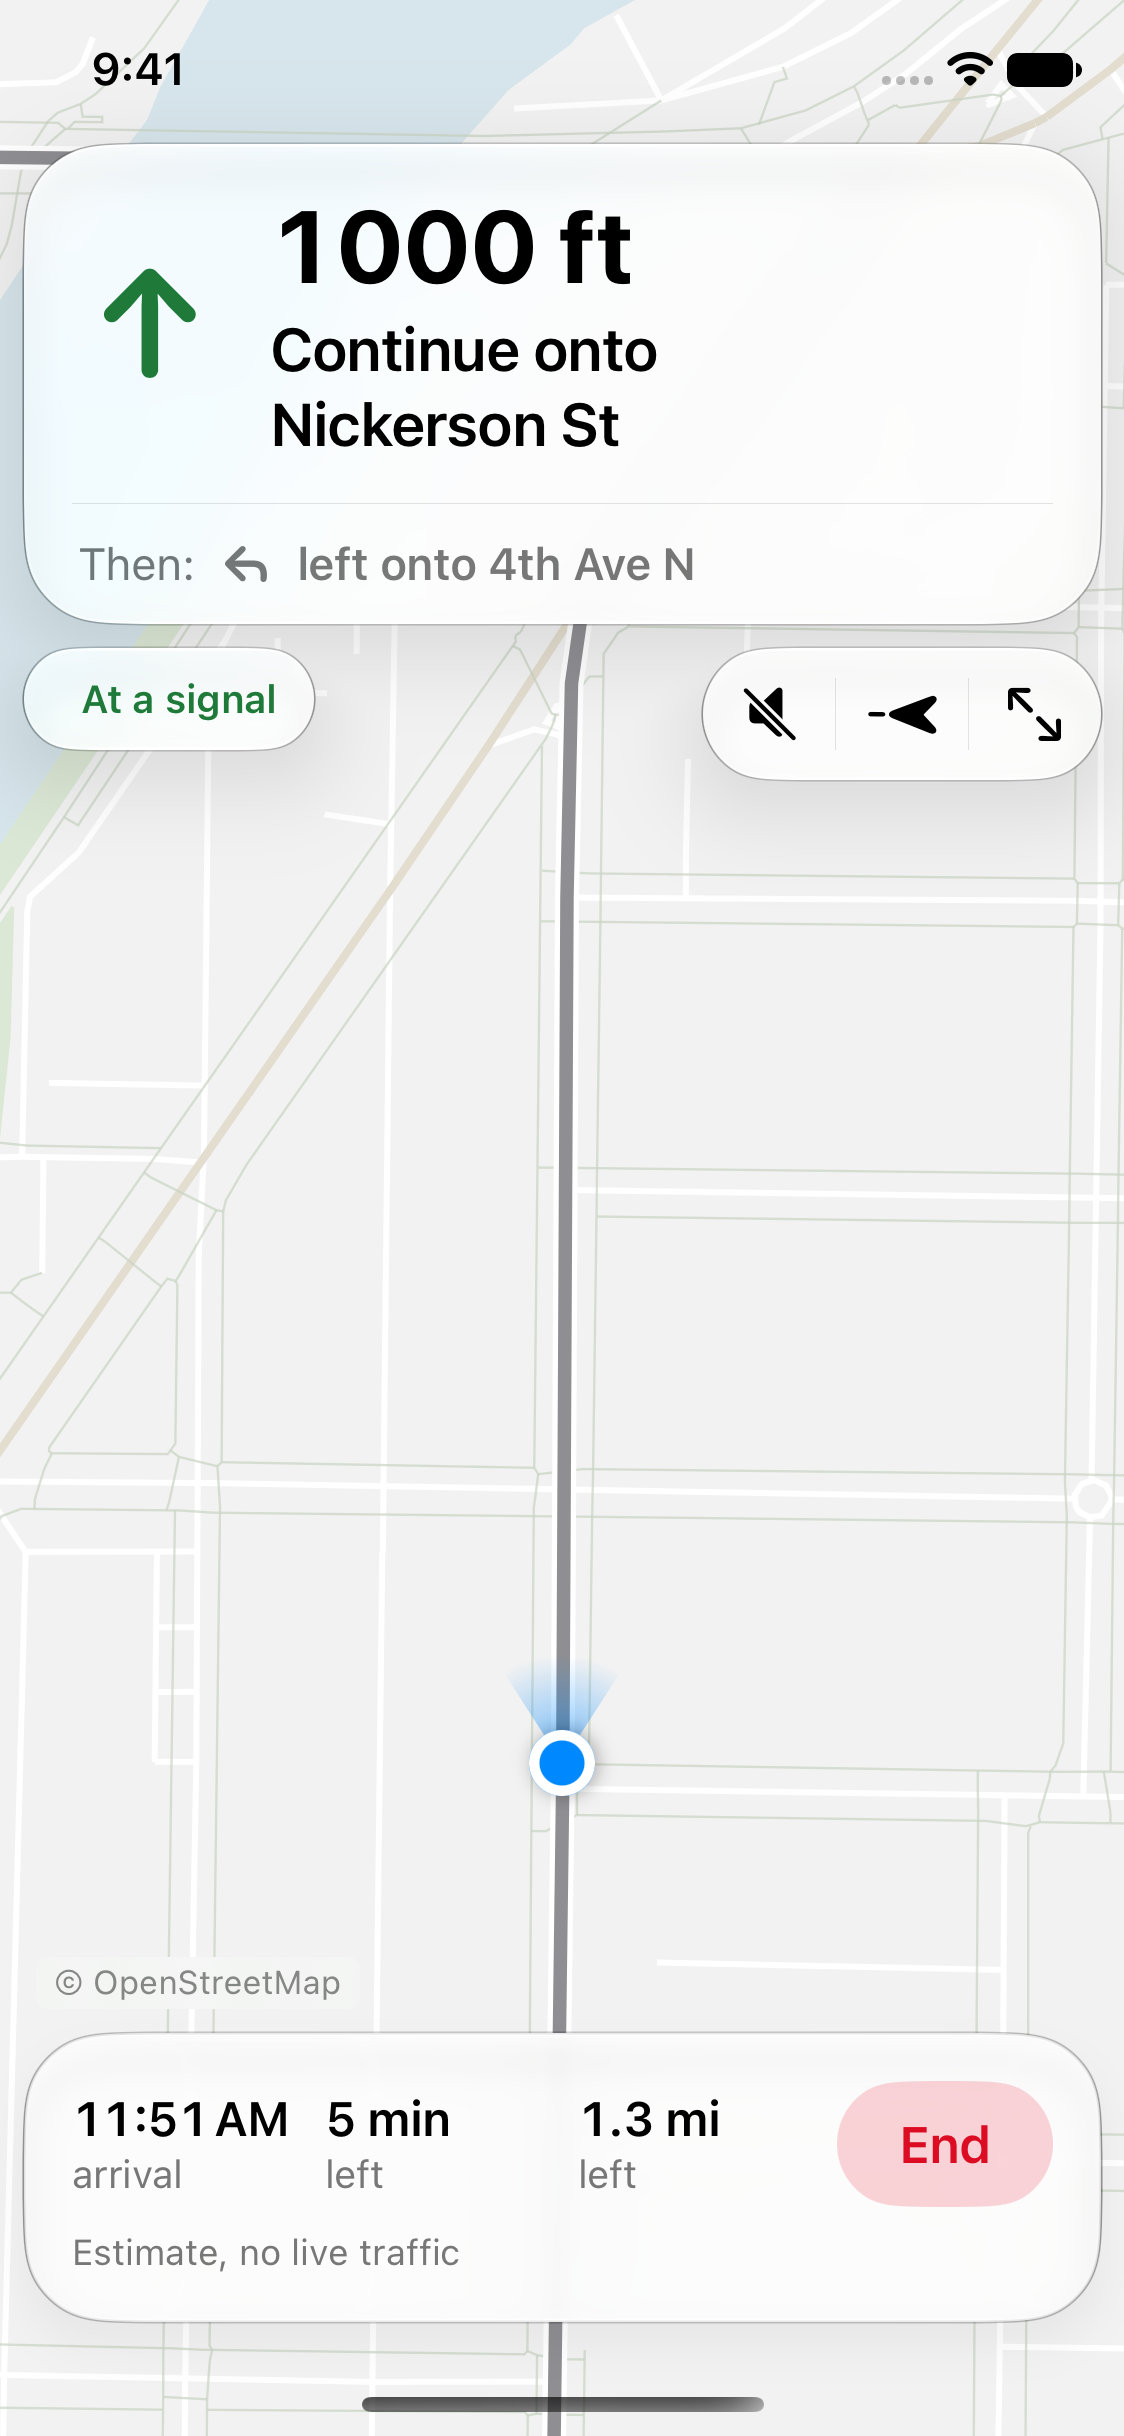
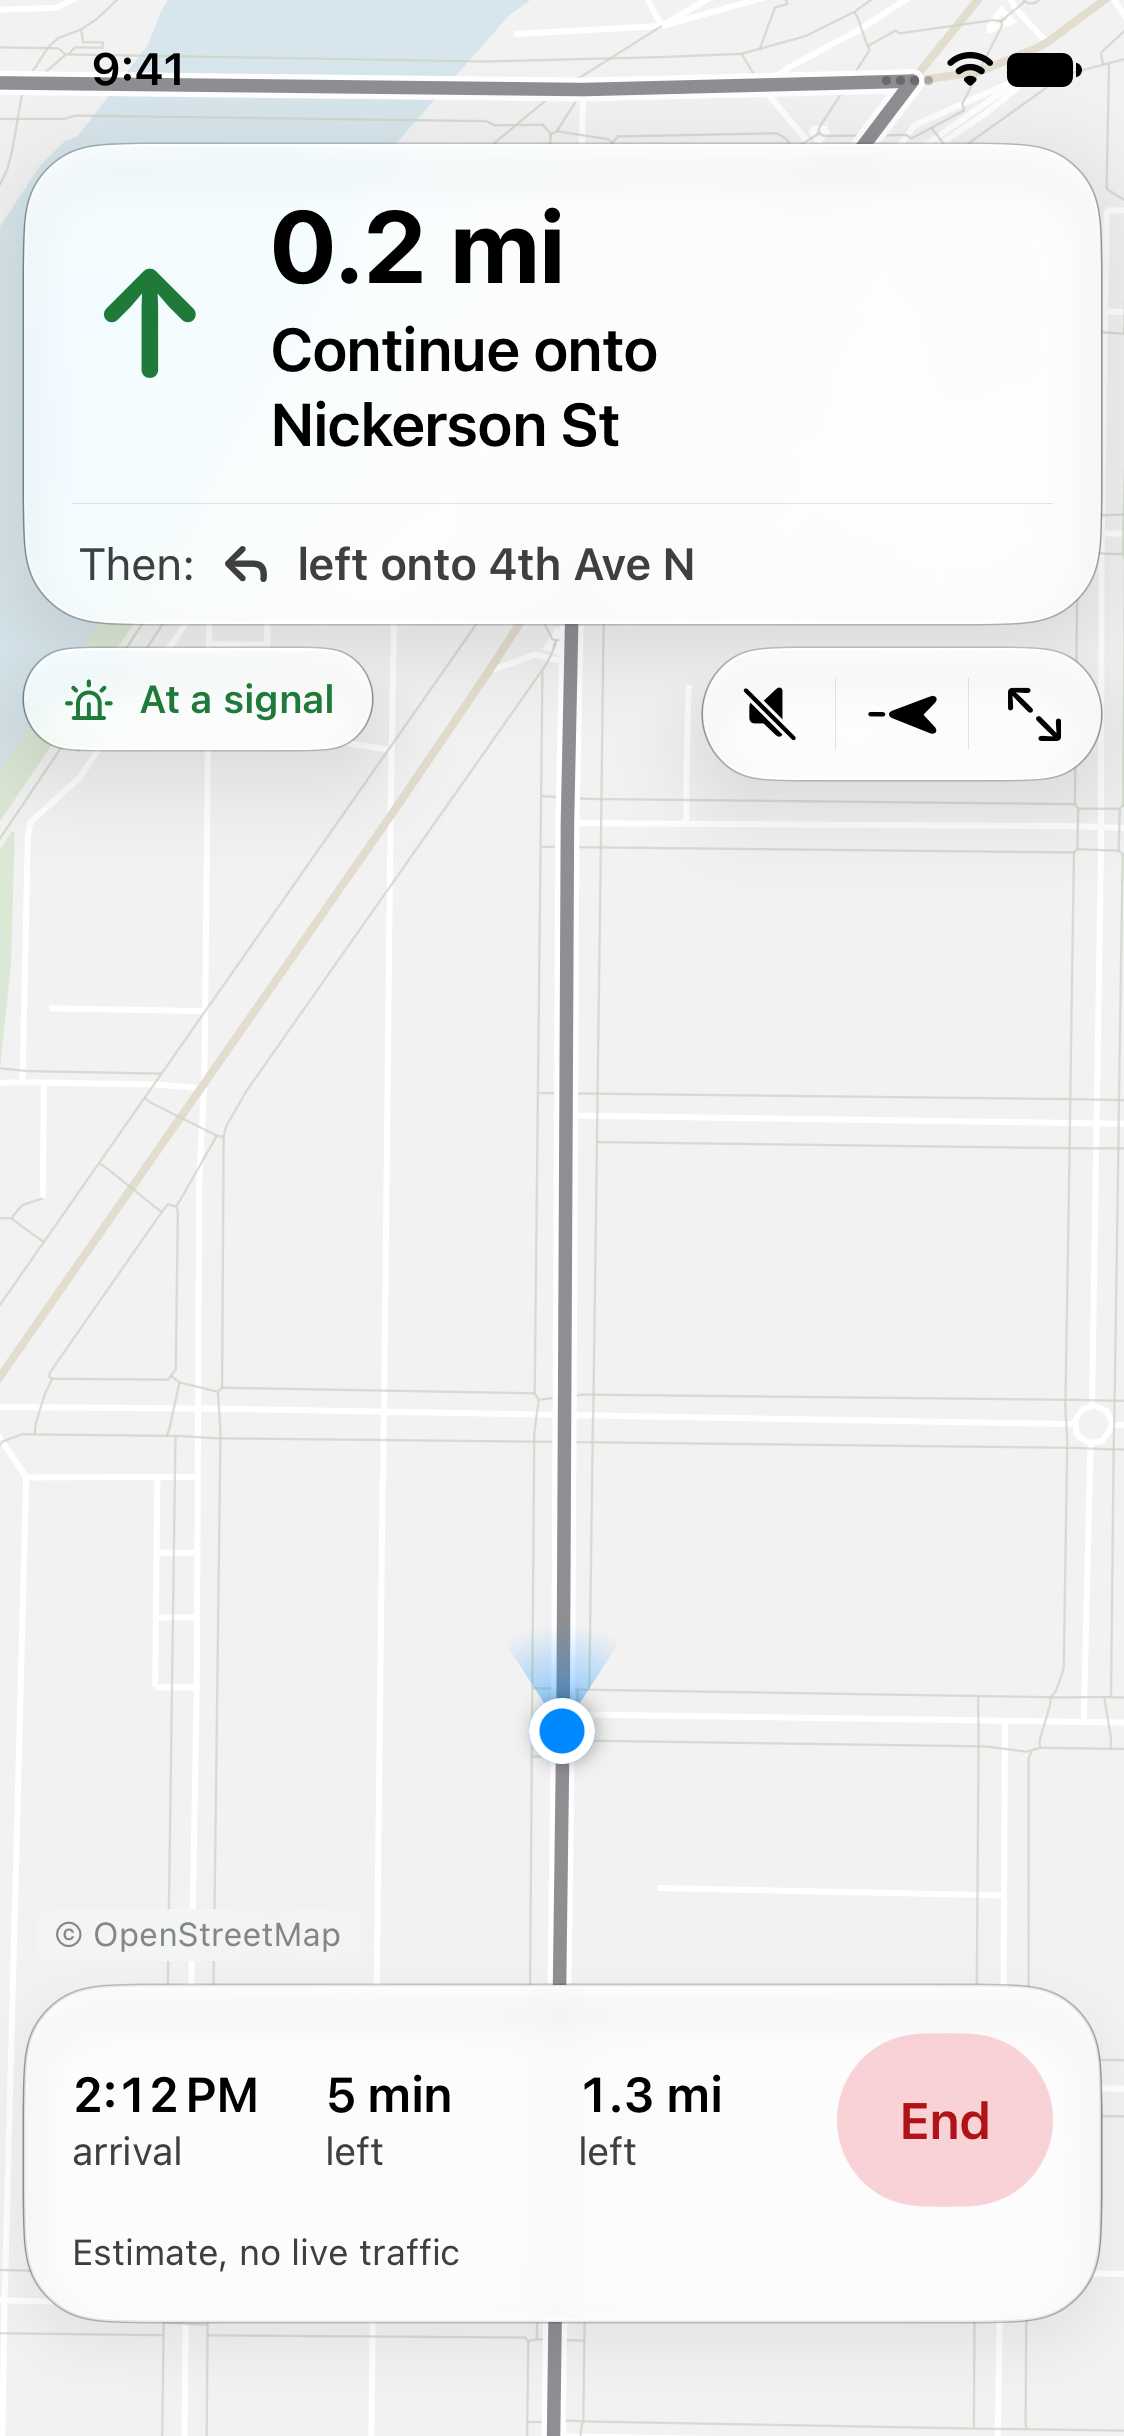
Guidance: arrival haptic on the overlay root, no scroll at large type, readable secondary text, 44 pt End, compass overview test

diff --git a/App/Navigation/GuidanceView.swift b/App/Navigation/GuidanceView.swift
@@ -24,7 +24,7 @@ struct GuidanceOverlay: View {
     let navigator: NavigationController
     let landscape: Bool
     /// Landscape card width; the card is also capped at 40% of the screen width.
-    let cardWidth: CGFloat?
+    let cardWidth: CGFloat
     let attribution: AnyView
     @Binding var camera: GuidanceCamera
     @Binding var muted: Bool
@@ -37,7 +37,9 @@ struct GuidanceOverlay: View {
     @State private var bottomEdge: CGFloat = .infinity
     @State private var leadingEdge: CGFloat = 0
     @State private var screen: CGSize = .zero
-    @ScaledMetric(relativeTo: .largeTitle) private var arrowSize = 52.0
+    @ScaledMetric(relativeTo: .largeTitle) private var scaledArrow = 52.0
+    /// Capped with the rest of the chrome (the environment cap below doesn't reach this view's own metrics).
+    private var arrowSize: CGFloat { min(scaledArrow, 80) }
     @Environment(\.accessibilityReduceMotion) private var reduceMotion
     @Environment(\.dynamicTypeSize) private var typeSize
     @Namespace private var glassNS
@@ -69,6 +71,9 @@ struct GuidanceOverlay: View {
             shownAngle += delta
         }
         .onAppear { shownAngle = compassTarget; withAnimation(Motion.panel(reduceMotion)) { shown = true } }
+        .sensoryFeedback(.success, trigger: navigator.hasArrived) { _, arrived in arrived }
+        // Banner and trip bar stacked are taller than the screen past this size, so the chrome stops growing here.
+        .dynamicTypeSize(...DynamicTypeSize.accessibility2)
     }
 
     /// Where the compass should point: against the map's heading while the map is turned, upright otherwise. A free look
@@ -94,7 +99,6 @@ struct GuidanceOverlay: View {
         VStack(spacing: 8) {
             if !navigator.hasArrived {
                 GlassEffectContainer(spacing: 8) {
-                    topChrome {
                     VStack(alignment: .leading, spacing: 8) {
                         if shown {
                             ZStack(alignment: .top) {
@@ -109,7 +113,6 @@ struct GuidanceOverlay: View {
                             Spacer(minLength: 0)
                             mapButtons
                         }
-                    }
                     }
                 }
                 .padding(.horizontal, 8).padding(.top, 4)
@@ -130,16 +133,11 @@ struct GuidanceOverlay: View {
         .frame(maxWidth: .infinity, maxHeight: .infinity, alignment: .top)
     }
 
-    /// At accessibility sizes the banner and trip bar together are taller than the screen, so the top chrome scrolls.
-    @ViewBuilder private func topChrome<C: View>(@ViewBuilder _ content: () -> C) -> some View {
-        if typeSize.isAccessibilitySize { ScrollView { content() }.scrollBounceBehavior(.basedOnSize) } else { content() }
-    }
-
     // MARK: Landscape
 
     private var landscapeBody: some View {
         GeometryReader { geo in
-            let width = min(cardWidth ?? 360, geo.size.width * 0.4)
+            let width = min(cardWidth, geo.size.width * 0.4)
             GlassEffectContainer(spacing: 8) {
                 HStack(alignment: .top, spacing: 0) {
                     ScrollView {
@@ -215,7 +213,7 @@ struct GuidanceOverlay: View {
                     Text(navigator.thenText).fontWeight(.semibold).lineLimit(typeSize.isAccessibilitySize ? 4 : 2).fixedSize(horizontal: false, vertical: true)
                     Spacer(minLength: 0)
                 }
-                .font(.subheadline).foregroundStyle(.secondary)
+                .font(.subheadline).foregroundStyle(Self.onGlass)
                 .padding(.horizontal, 18).padding(.vertical, 10).frame(maxWidth: .infinity, minHeight: 40, alignment: .leading)
                 .accessibilityElement(children: .combine).accessibilityIdentifier("guidance-then")
             }
@@ -239,7 +237,7 @@ struct GuidanceOverlay: View {
     }
 
     private static func chipSymbol(_ text: String) -> String {
-        text.localizedCaseInsensitiveContains("stop") ? "octagon" : "trafficlight"
+        text.localizedCaseInsensitiveContains("stop") ? "octagon" : "light.beacon.max"
     }
 
     // MARK: Rerouting
@@ -254,13 +252,13 @@ struct GuidanceOverlay: View {
                 ProgressView().controlSize(.large).tint(.calmerText).frame(width: 52, height: 52)
                 VStack(alignment: .leading, spacing: 2) {
                     Text("Finding a calmer way…").font(.title2.bold()).fixedSize(horizontal: false, vertical: true)
-                    Text("You left the planned route").font(.subheadline).foregroundStyle(.secondary)
+                    Text("You left the planned route").font(.subheadline).foregroundStyle(Self.onGlass)
                 }
                 Spacer(minLength: 0)
             }
             .padding(.leading, 16).padding(.trailing, 18).padding(.vertical, 14)
             Divider().padding(.horizontal, 16)
-            Text("Works offline. No signal needed.").font(.subheadline).foregroundStyle(.secondary)
+            Text("Works offline. No signal needed.").font(.subheadline).foregroundStyle(Self.onGlass)
                 .padding(.horizontal, 18).frame(maxWidth: .infinity, minHeight: 40, alignment: .leading)
         }
         .accessibilityElement(children: .combine).accessibilityIdentifier("guidance-rerouting")
@@ -282,15 +280,15 @@ struct GuidanceOverlay: View {
         return VStack(alignment: .leading, spacing: 8) {
             if landscape {
                 stats(waiting)
-                Text(estimateNote(waiting)).font(.caption).foregroundStyle(.secondary).padding(.top, 6)
+                Text(estimateNote(waiting)).font(.caption).foregroundStyle(Self.onGlass).padding(.top, 6)
                 endButton(fullWidth: true)
             } else if typeSize.isAccessibilitySize {
                 stats(waiting)
                 endButton(fullWidth: true)
-                Text(estimateNote(waiting)).font(.caption).foregroundStyle(.secondary)
+                Text(estimateNote(waiting)).font(.caption).foregroundStyle(Self.onGlass)
             } else {
                 HStack(spacing: 12) { stats(waiting); endButton(fullWidth: false) }
-                Text(estimateNote(waiting)).font(.caption).foregroundStyle(.secondary)
+                Text(estimateNote(waiting)).font(.caption).foregroundStyle(Self.onGlass)
             }
         }
         .accessibilityElement(children: .contain).accessibilityIdentifier("trip-bar")
@@ -321,9 +319,9 @@ struct GuidanceOverlay: View {
         let layout = stacked ? AnyLayout(HStackLayout(alignment: .firstTextBaseline, spacing: 8)) : AnyLayout(VStackLayout(alignment: .leading, spacing: 1))
         return layout {
             Text(value).font(.title3.weight(.semibold)).monospacedDigit().lineLimit(1).minimumScaleFactor(0.8)
-                .foregroundStyle(waiting ? .secondary : .primary).accessibilityIdentifier(id)
+                .foregroundStyle(waiting ? Self.onGlass : Color.primary).accessibilityIdentifier(id)
                 .contentTransition(.numericText()).animation(Motion.content(reduceMotion), value: value)
-            Text(label).font(.footnote).foregroundStyle(.secondary)
+            Text(label).font(.footnote).foregroundStyle(Self.onGlass)
         }
         .frame(maxWidth: .infinity, alignment: .leading)
         .accessibilityElement(children: .combine)
@@ -331,8 +329,8 @@ struct GuidanceOverlay: View {
 
     private func endButton(fullWidth: Bool) -> some View {
         Button(role: .destructive, action: onEnd) {
-            Text("End").font(.body.weight(.semibold)).padding(.horizontal, 8)
-                .frame(minWidth: 48, maxWidth: fullWidth ? .infinity : nil, minHeight: 28)
+            Text("End").font(.body.weight(.semibold)).foregroundStyle(Self.endRed).padding(.horizontal, 8)
+                .frame(minWidth: 48, maxWidth: fullWidth ? .infinity : nil, minHeight: 44)
         }
         .buttonStyle(.bordered).buttonBorderShape(.capsule).tint(.red)
         .accessibilityIdentifier("end-navigation")
@@ -380,7 +378,7 @@ struct GuidanceOverlay: View {
             Image(systemName: "location.north.line.fill").rotationEffect(.degrees(shownAngle))
         }
         .accessibilityLabel(camera.courseUp ? "Heading up" : "North up")
-        .accessibilityHint(camera.courseUp ? "Turns the map north up" : "Turns the map to face your heading")
+        .accessibilityHint(camera.mode == .overview ? "Leaves the route overview" : camera.courseUp ? "Turns the map north up" : "Turns the map to face your heading")
         .accessibilityIdentifier("guidance-compass")
     }
 
@@ -423,7 +421,7 @@ struct GuidanceOverlay: View {
                 VStack(alignment: .leading, spacing: 2) {
                     Text("You've arrived at \(name)").font(.title2.bold()).fixedSize(horizontal: false, vertical: true)
                         .accessibilityIdentifier("guidance-arrived")
-                    Text(summary).font(.subheadline).foregroundStyle(.secondary).accessibilityIdentifier("arrival-summary")
+                    Text(summary).font(.subheadline).foregroundStyle(Self.onGlass).accessibilityIdentifier("arrival-summary")
                 }
                 Spacer(minLength: 0)
             }
@@ -446,11 +444,10 @@ struct GuidanceOverlay: View {
             }
             .buttonStyle(.glassProminent).buttonBorderShape(.capsule).tint(.directionsFill).controlSize(.large)
             .accessibilityIdentifier("done-navigation")
-            Text("Times are estimates. No live traffic.").font(.footnote).foregroundStyle(.secondary).padding(.horizontal, 4)
+            Text("Times are estimates. No live traffic.").font(.footnote).foregroundStyle(Self.onGlass).padding(.horizontal, 4)
             VoiceUpgradeTip()
         }
         .accessibilityElement(children: .contain).accessibilityIdentifier("arrival-card")
-        .sensoryFeedback(.success, trigger: navigator.hasArrived) { _, arrived in arrived }
     }
 
     #if DEBUG
@@ -459,6 +456,11 @@ struct GuidanceOverlay: View {
     #else
     static let exposesArrow = false
     #endif
+
+    /// Secondary text on glass: `.secondary` measures under 4.5:1 on it.
+    static let onGlass = Color.primary.opacity(0.75)
+    /// Red label for End: a darker red in light, a lighter one in dark, so it clears 4.5:1 on its tinted capsule over glass.
+    static let endRed = Color(uiColor: UIColor { $0.userInterfaceStyle == .dark ? UIColor(red: 1, green: 0.5, blue: 0.47, alpha: 1) : UIColor(red: 0.69, green: 0.07, blue: 0.09, alpha: 1) })
 
     static func symbol(_ maneuver: Maneuver) -> String { maneuver.symbolName }
 }

diff --git a/UITests/PeoplemapsUITests.swift b/UITests/PeoplemapsUITests.swift
@@ -434,11 +434,39 @@ final class PeoplemapsUITests: XCTestCase {
         app.buttons["done-navigation"].tap()
         XCTAssertTrue(app.buttons["search-field"].waitForExistence(timeout: 10))
     }
+    /// A tap on the compass while in the overview only leaves it: the orientation it had stays.
+    @MainActor func testCompassInOverviewOnlyLeavesTheOverview() {
+        let app = launch(simulateRoute: true)
+        startSimulatedGuidance(app)
+        let compass = app.buttons["guidance-compass"], overview = app.buttons["guidance-overview"]
+        XCTAssertTrue(compass.waitForExistence(timeout: 5))
+        XCTAssertEqual(compass.label, "Heading up")
+        overview.tap()
+        XCTAssertEqual(overview.label, "Follow my position")
+        compass.tap()
+        XCTAssertEqual(overview.label, "Route overview", "The compass should leave the overview")
+        XCTAssertEqual(compass.label, "Heading up", "Leaving the overview must not flip the orientation")
+    }
+    /// At AX3 the chrome still leaves the three map buttons, End and the map's own gestures reachable.
+    @MainActor func testGuidanceAtAX3KeepsButtonsReachableAndMapPannable() {
+        let app = launchHome(location: Self.atKerryPark, extra: ["--simulate-route", "-UIPreferredContentSizeCategoryName", "UICTContentSizeCategoryAccessibilityXL"])
+        showGasWorksRoutes(app)
+        startSimulatedGuidance(app)
+        for id in ["guidance-mute", "guidance-compass", "guidance-overview", "end-navigation"] {
+            XCTAssertTrue(app.buttons[id].waitForExistence(timeout: 5), id)
+            XCTAssertTrue(app.buttons[id].isHittable, "\(id) is not hittable at AX3")
+        }
+        let from = app.coordinate(withNormalizedOffset: CGVector(dx: 0.9, dy: 0.5))
+        from.press(forDuration: 0.1, thenDragTo: app.coordinate(withNormalizedOffset: CGVector(dx: 0.9, dy: 0.35)))
+        XCTAssertTrue(app.buttons["guidance-recenter"].waitForExistence(timeout: 5), "A pan should reach the map at AX3")
+    }
     @MainActor func testLandscapeGuidanceKeepsEndAndMuteHittable() {
         let app = launch(simulateRoute: true)
         XCUIDevice.shared.orientation = .landscapeLeft
         defer { XCUIDevice.shared.orientation = .portrait }
         startSimulatedGuidance(app)
+        let window = app.windows.firstMatch.frame
+        XCTAssertGreaterThan(window.width, window.height, "The device did not rotate to landscape")
         XCTAssertTrue(app.buttons["end-navigation"].waitForExistence(timeout: 5))
         XCTAssertTrue(app.buttons["end-navigation"].isHittable, "End must be reachable in the landscape card")
         XCTAssertTrue(app.buttons["guidance-mute"].isHittable, "Mute must be reachable in the trailing capsule")

diff --git a/Docs/DESIGN.md b/Docs/DESIGN.md
@@ -413,8 +413,13 @@ screen.
   no live traffic" below. At accessibility sizes the three stats stack.
 
 Landscape: one leading glass card (banner, chip, trip stats, End), buttons
-trailing, as today but glass. Width `min(360, 40% of width)` instead of fixed
-330 (D6).
+trailing, as today but glass. Width `min(cardWidth, 40% of width)`, where
+`ExploreView` passes `cardWidth` = 330 (D6).
+
+At accessibility sizes the chrome's type stops growing at `accessibility2`: the
+banner and the stacked trip bar together fill the screen at larger sizes, which
+would push mute, compass and overview off it. Secondary text on glass uses
+`.primary` at 75% opacity, because `.secondary` measures under 4.5:1 there.
 
 ```
 ┌──────────────────────────────┐
@@ -437,10 +442,11 @@ trailing, as today but glass. Width `min(360, 40% of width)` instead of fixed
 Current: opaque bottom sheet, green check, notes list, Done
 (`nav-arrived.png`).
 
-Proposed: the persistent sheet returns at `.medium` with the arrival content:
-check badge (`directionsFill`), "You've arrived at Gas Works Park", summary
-line, trip notes in a `panelFill` group, **Done** as `.glassProminent`, "Times
-are estimates. No live traffic." and the voice tip. `.sensoryFeedback(.success)`.
+Decided, not the returning sheet: a bottom glass card inside `GuidanceView`, no
+grabber. Check badge (`directionsFill`), "You've arrived at Gas Works Park",
+summary line, trip notes in a `panelFill` group, **Done** as `.glassProminent`
+tinted `directionsFill`, "Times are estimates. No live traffic." and the voice
+tip. `.sensoryFeedback(.success)` fires on arrival.
 
 ### 4.9 About and Acknowledgements
 

diff --git a/Docs/NAVIGATION.md b/Docs/NAVIGATION.md
@@ -65,9 +65,11 @@ sense of direction.
   when the user pans, pinches or double-taps: following stops and the map stays
   where they left it. The map keeps the last heading while the user is stopped,
   so it never swings back north at a light.
-- **Controls.** The compass button (`guidance-compass`) flips heading-up and
-  north-up and resumes following; its glyph points north on screen. The overview
-  button toggles the fitted view. In `free`, a "Re-centre" pill
+- **Controls.** Mute, compass and overview are one glass capsule. The compass
+  button (`guidance-compass`) flips heading-up and north-up and resumes
+  following; its glyph points north on screen and stays put during a free look.
+  In the overview a tap only leaves the overview and does not flip the
+  orientation. The overview button toggles the fitted view. In `free`, a "Re-centre" pill
   (`guidance-recenter`) returns to the follow mode the user left, as Apple Maps
   does. Camera turns animate with `Motion.camera`: a cut under Reduce Motion and
   `--ui-testing`.
